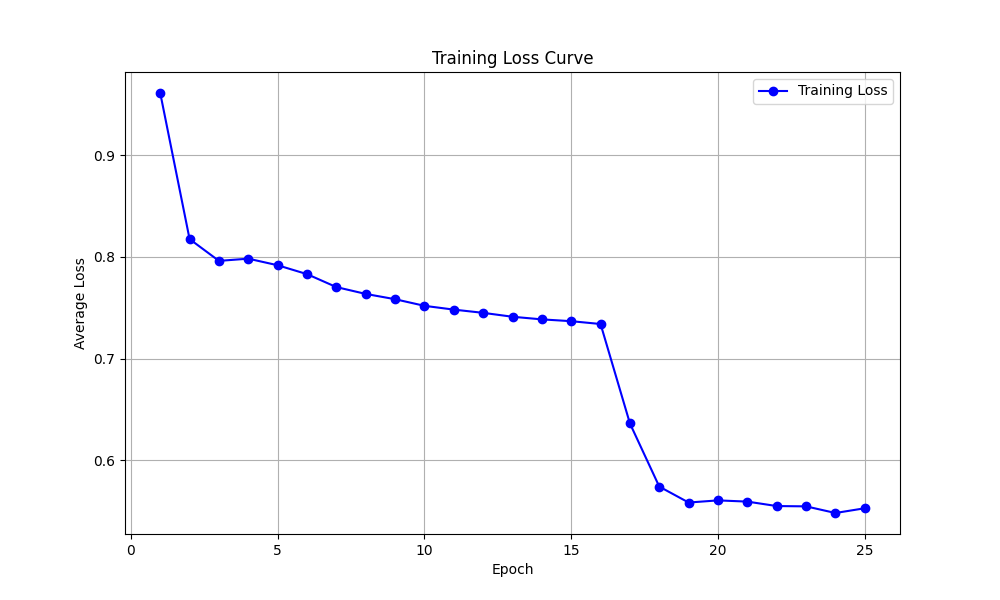
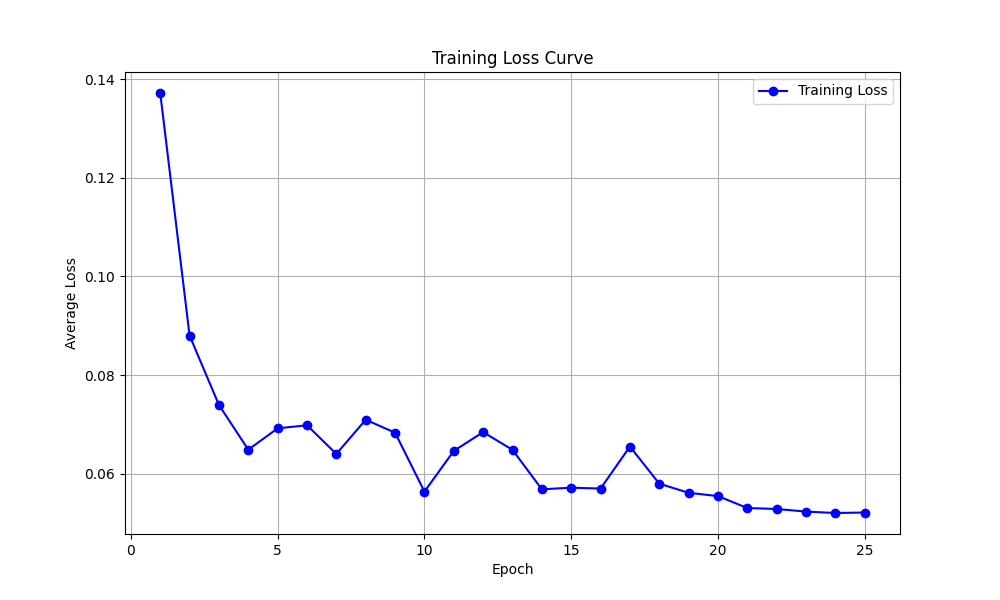
updating from colab

diff --git a/src/train.py b/src/train.py
@@ -65,7 +65,7 @@ def train_example(num_epochs, num_models):
         d_lr_scheduler.step()
 
         # 验证：每个epoch结束后随机取一个batch验证效果
-        validate(model[-1], train_loader, device, epoch, num_models)
+        validate(model[-1], val_loader, device, epoch, num_models)
 
         # 将模型按照对比损失，从大到校排列
         shuffle_lists_in_same_order(model, lr_schedulers, optimizer, gen_losses)
@@ -221,4 +221,4 @@ def validate(model, val_loader, device, epoch, num_models):
 
 if __name__ == "__main__":
 
-    train_example(50, 3)
+    train_example(25, 3)
